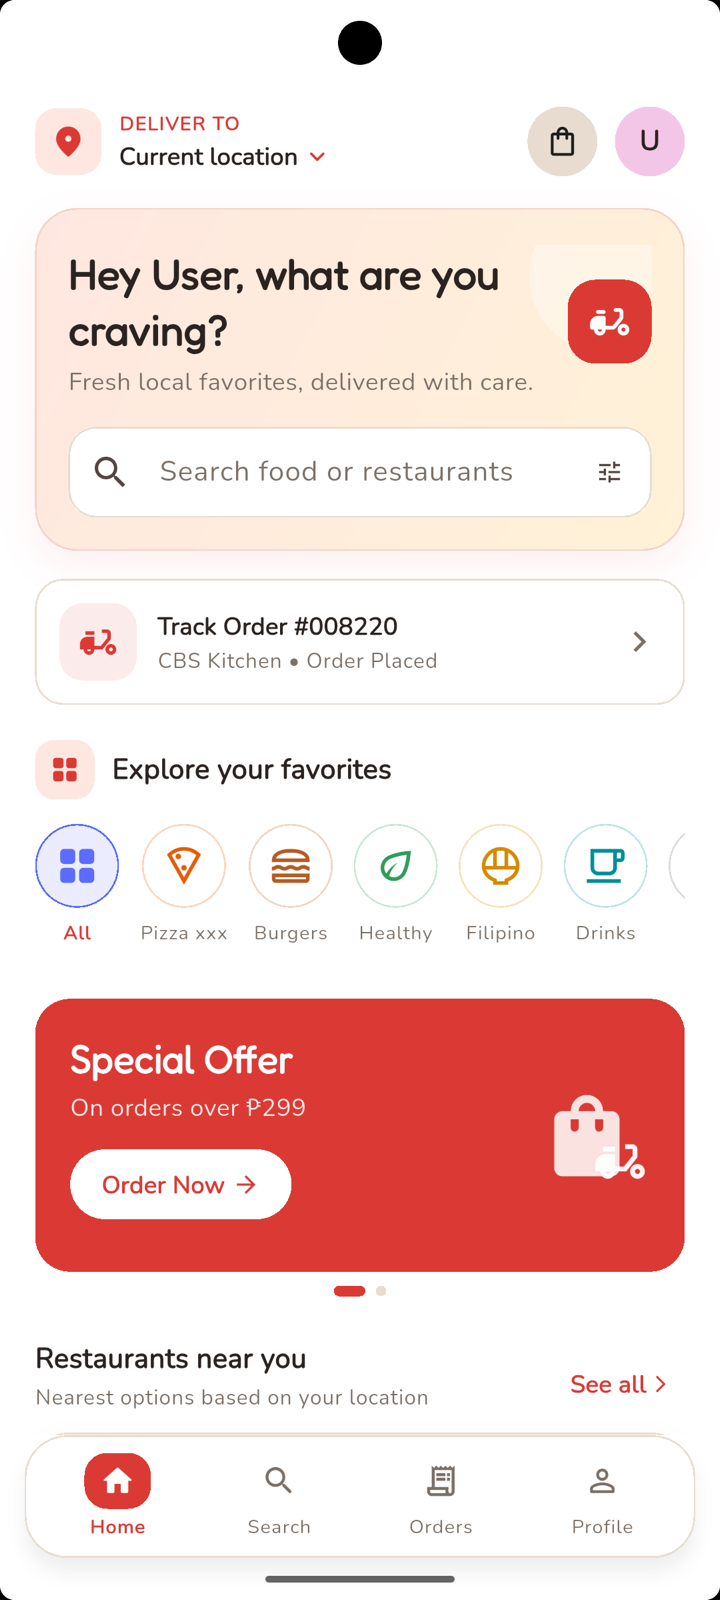
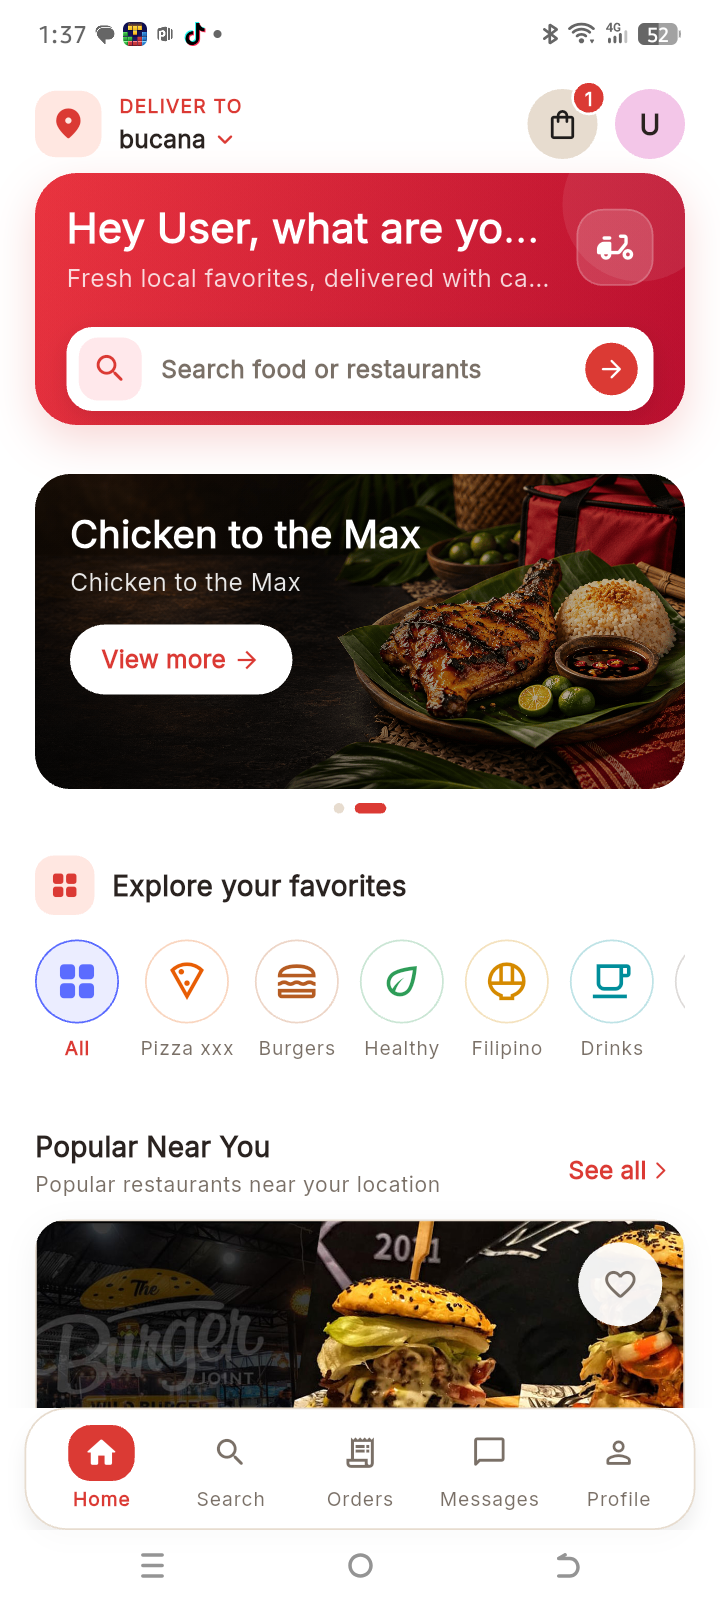
updated the homepage and add a redispatch orders

diff --git a/resources/scss/_pahatud.scss b/resources/scss/_pahatud.scss
@@ -430,18 +430,28 @@ html {
     height: 700px;
 }
 
-.home-phone-showcase-feature .home-phone-screen-login {
-    left: -25px;
-    top: 95px;
-    transform: rotate(-4deg);
-    width: 235px;
+.home-phone-showcase-feature .home-phone-screen-menu {
+    left: -15px;
+    top: 115px;
+    transform: rotate(-5deg);
+    width: 205px;
+    z-index: 1;
 }
 
-.home-phone-showcase-feature .home-phone-screen-tracking {
-    right: -5px;
-    top: 15px;
-    transform: rotate(3deg);
-    width: 260px;
+.home-phone-showcase-feature .home-phone-screen-checkout {
+    left: 50%;
+    top: 20px;
+    transform: translateX(-50%);
+    width: 245px;
+    z-index: 3;
+}
+
+.home-phone-showcase-feature .home-phone-screen-confirmed {
+    right: -15px;
+    top: 115px;
+    transform: rotate(5deg);
+    width: 205px;
+    z-index: 2;
 }
 
 .home-app-content {
@@ -991,23 +1001,28 @@ html {
     }
 
     .home-app-image {
-        min-height: 545px;
+        min-height: 485px;
     }
 
     .home-phone-showcase-feature {
-        height: 545px;
+        height: 485px;
     }
 
-    .home-phone-showcase-feature .home-phone-screen-login {
-        left: 0;
-        top: 80px;
-        width: 175px;
+    .home-phone-showcase-feature .home-phone-screen-menu {
+        left: -5px;
+        top: 75px;
+        width: 145px;
     }
 
-    .home-phone-showcase-feature .home-phone-screen-tracking {
-        right: 0;
-        top: 20px;
-        width: 195px;
+    .home-phone-showcase-feature .home-phone-screen-checkout {
+        top: 10px;
+        width: 185px;
+    }
+
+    .home-phone-showcase-feature .home-phone-screen-confirmed {
+        right: -5px;
+        top: 75px;
+        width: 145px;
     }
 
     .home-section-heading {

diff --git a/tests/Feature/Api/FullRiderApiTest.php b/tests/Feature/Api/FullRiderApiTest.php
@@ -2,6 +2,7 @@
 
 namespace Tests\Feature\Api;
 
+use App\Jobs\RedispatchRiderOffers;
 use App\Jobs\SendRiderOfferPush;
 use App\Model\Orders\Orders;
 use App\Model\Rider\Rider as ApiRider;
@@ -878,6 +879,7 @@ class FullRiderApiTest extends TestCase
 
     public function test_accepting_one_offer_closes_the_riders_other_pending_offers(): void
     {
+        Bus::fake([RedispatchRiderOffers::class]);
         $token = $this->loginApprovedRider('accept-multiple@example.com');
         $riderId = DB::table('rider')->latest('id')->value('id');
         $offerReferences = [];
@@ -916,6 +918,70 @@ class FullRiderApiTest extends TestCase
         ]);
         $this->authenticated($token)->getJson('/api/v1/rider/offers')
             ->assertOk()->assertJsonCount(0, 'offers');
+        Bus::assertDispatched(RedispatchRiderOffers::class, fn (RedispatchRiderOffers $job) => $job->deliveryIds === [$deliveryId]);
+    }
+
+    public function test_redispatch_revalidates_and_renews_a_compatible_add_on_offer(): void
+    {
+        Bus::fake([SendRiderOfferPush::class]);
+        $this->loginApprovedRider('redispatch-add-on@example.com');
+        $riderId = DB::table('rider')->latest('id')->value('id');
+        DB::table('rider_api_availability')->updateOrInsert(
+            ['rider_id' => $riderId],
+            ['state' => 'active_delivery', 'created_at' => now(), 'updated_at' => now()],
+        );
+        DB::table('rider_api_locations')->insert([
+            'rider_id' => $riderId,
+            'latitude' => 10.3157,
+            'longitude' => 123.8854,
+            'recorded_at' => now(),
+            'created_at' => now(),
+            'updated_at' => now(),
+        ]);
+
+        DB::table('rider_api_deliveries')->insert([
+            'reference' => (string) Str::uuid(),
+            'rider_id' => $riderId,
+            'current_state' => 'accepted',
+            'merchant_name' => 'First Merchant',
+            'pickup_latitude' => 10.3157,
+            'pickup_longitude' => 123.8854,
+            'dropoff_latitude' => 10.3157,
+            'dropoff_longitude' => 123.9254,
+            'accepted_at' => now(),
+            'created_at' => now(),
+            'updated_at' => now(),
+        ]);
+        $secondDeliveryId = DB::table('rider_api_deliveries')->insertGetId([
+            'reference' => (string) Str::uuid(),
+            'current_state' => 'offered',
+            'merchant_name' => 'Along The Way Merchant',
+            'pickup_latitude' => 10.3157,
+            'pickup_longitude' => 123.9054,
+            'dropoff_latitude' => 10.3157,
+            'dropoff_longitude' => 123.9354,
+            'created_at' => now(),
+            'updated_at' => now(),
+        ]);
+        $expiredReference = (string) Str::uuid();
+        DB::table('rider_api_offers')->insert([
+            'reference' => $expiredReference,
+            'rider_id' => $riderId,
+            'delivery_id' => $secondDeliveryId,
+            'status' => 'expired',
+            'expires_at' => now()->addMinutes(15),
+            'responded_at' => now(),
+            'created_at' => now(),
+            'updated_at' => now(),
+        ]);
+
+        (new RedispatchRiderOffers([$secondDeliveryId]))->handle(app(RiderOfferDispatcher::class));
+
+        $renewedOffer = DB::table('rider_api_offers')->where('delivery_id', $secondDeliveryId)->first();
+        $this->assertSame('pending', $renewedOffer->status);
+        $this->assertNotSame($expiredReference, $renewedOffer->reference);
+        $this->assertNull($renewedOffer->responded_at);
+        Bus::assertDispatchedTimes(SendRiderOfferPush::class, 1);
     }
 
     public function test_active_rider_can_accept_one_compatible_add_on_and_receive_a_multi_stop_route(): void

diff --git a/resources/views/pages/home.blade.php b/resources/views/pages/home.blade.php
@@ -30,7 +30,7 @@
                     <div class="home-hero-orbit home-hero-orbit-two"></div>
                     <div class="home-phone-showcase home-phone-showcase-hero" aria-label="PahatudFood mobile app preview">
                         <figure class="home-phone-screen home-phone-screen-secondary">
-                            <img src="{{ asset('images/app-preview/restaurants.png') }}" alt="PahatudFood restaurants near you screen" width="720" height="1600" loading="eager">
+                            <img src="{{ asset('images/app-preview/restaurant-menu.png') }}" alt="PahatudFood restaurant menu screen" width="720" height="1600" loading="eager">
                         </figure>
                         <figure class="home-phone-screen home-phone-screen-primary">
                             <img src="{{ asset('images/app-preview/home.png') }}" alt="PahatudFood mobile app home screen" width="720" height="1600" loading="eager" fetchpriority="high">
@@ -54,12 +54,15 @@
             <div class="home-app-card">
                 <div class="row align-items-center">
                     <div class="col-lg-6 home-app-image">
-                        <div class="home-phone-showcase home-phone-showcase-feature" aria-label="PahatudFood login and order tracking preview">
-                            <figure class="home-phone-screen home-phone-screen-login">
-                                <img src="{{ asset('images/app-preview/login.png') }}" alt="PahatudFood mobile app login screen" loading="lazy" width="720" height="1600">
+                        <div class="home-phone-showcase home-phone-showcase-feature" aria-label="PahatudFood ordering flow preview">
+                            <figure class="home-phone-screen home-phone-screen-menu">
+                                <img src="{{ asset('images/app-preview/menu-browse.png') }}" alt="Browsing a restaurant menu in the PahatudFood mobile app" loading="lazy" width="720" height="1600">
                             </figure>
-                            <figure class="home-phone-screen home-phone-screen-tracking">
-                                <img src="{{ asset('images/app-preview/order-tracking.png') }}" alt="PahatudFood live order tracking screen" loading="lazy" width="720" height="1600">
+                            <figure class="home-phone-screen home-phone-screen-checkout">
+                                <img src="{{ asset('images/app-preview/checkout.png') }}" alt="Reviewing an order at PahatudFood checkout" loading="lazy" width="720" height="1600">
+                            </figure>
+                            <figure class="home-phone-screen home-phone-screen-confirmed">
+                                <img src="{{ asset('images/app-preview/order-confirmed.png') }}" alt="Confirmed PahatudFood order screen" loading="lazy" width="720" height="1600">
                             </figure>
                         </div>
                     </div>

diff --git a/app/Http/Controllers/Api/V1/Rider/DeliveryController.php b/app/Http/Controllers/Api/V1/Rider/DeliveryController.php
@@ -3,6 +3,7 @@
 namespace App\Http\Controllers\Api\V1\Rider;
 
 use App\Http\Controllers\Controller;
+use App\Jobs\RedispatchRiderOffers;
 use App\LibraryStatus;
 use App\Model\Bookings\Bookings;
 use App\Model\Bookings\BookingStatus;
@@ -98,7 +99,11 @@ class DeliveryController extends Controller
     {
         $rider = $this->riders->rider($request);
 
-        $delivery = DB::transaction(function () use ($rider, $offer) {
+        $result = DB::transaction(function () use ($rider, $offer) {
+            // Serialize accept attempts for this rider, including attempts for
+            // different deliveries, so the active-delivery limit is authoritative.
+            DB::table('rider')->where('id', $rider->id)->lockForUpdate()->first();
+
             $record = DB::table('rider_api_offers')
                 ->where('rider_id', $rider->id)
                 ->where('reference', $offer)
@@ -151,6 +156,13 @@ class DeliveryController extends Controller
                     'responded_at' => now(),
                     'updated_at' => now(),
                 ]);
+            $redispatchDeliveryIds = DB::table('rider_api_offers')
+                ->where('rider_id', $rider->id)
+                ->where('id', '!=', $record->id)
+                ->where('status', 'pending')
+                ->pluck('delivery_id')
+                ->map(fn ($deliveryId) => (int) $deliveryId)
+                ->all();
             DB::table('rider_api_offers')
                 ->where('rider_id', $rider->id)
                 ->where('id', '!=', $record->id)
@@ -207,12 +219,19 @@ class DeliveryController extends Controller
                 }
             }
 
-            return DB::table('rider_api_deliveries')->where('id', $record->delivery_id)->first();
+            return [
+                'delivery' => DB::table('rider_api_deliveries')->where('id', $record->delivery_id)->first(),
+                'redispatch_delivery_ids' => $redispatchDeliveryIds,
+            ];
         });
+
+        if ($result['redispatch_delivery_ids'] !== []) {
+            RedispatchRiderOffers::dispatch($result['redispatch_delivery_ids'])->afterCommit();
+        }
 
         return response()->json([
             'message' => 'Delivery offer accepted.',
-            'delivery' => $this->deliveryData($delivery),
+            'delivery' => $this->deliveryData($result['delivery']),
         ]);
     }
 

diff --git a/app/Jobs/RedispatchRiderOffers.php b/app/Jobs/RedispatchRiderOffers.php
@@ -1,0 +1,27 @@
+<?php
+
+namespace App\Jobs;
+
+use App\Services\RiderOfferDispatcher;
+use Illuminate\Bus\Queueable;
+use Illuminate\Contracts\Queue\ShouldQueue;
+use Illuminate\Foundation\Bus\Dispatchable;
+use Illuminate\Queue\InteractsWithQueue;
+use Illuminate\Queue\SerializesModels;
+
+class RedispatchRiderOffers implements ShouldQueue
+{
+    use Dispatchable, InteractsWithQueue, Queueable, SerializesModels;
+
+    public int $tries = 3;
+
+    /** @param list<int> $deliveryIds */
+    public function __construct(public readonly array $deliveryIds) {}
+
+    public function handle(RiderOfferDispatcher $dispatcher): void
+    {
+        foreach (array_unique($this->deliveryIds) as $deliveryId) {
+            $dispatcher->dispatchDelivery((int) $deliveryId);
+        }
+    }
+}
